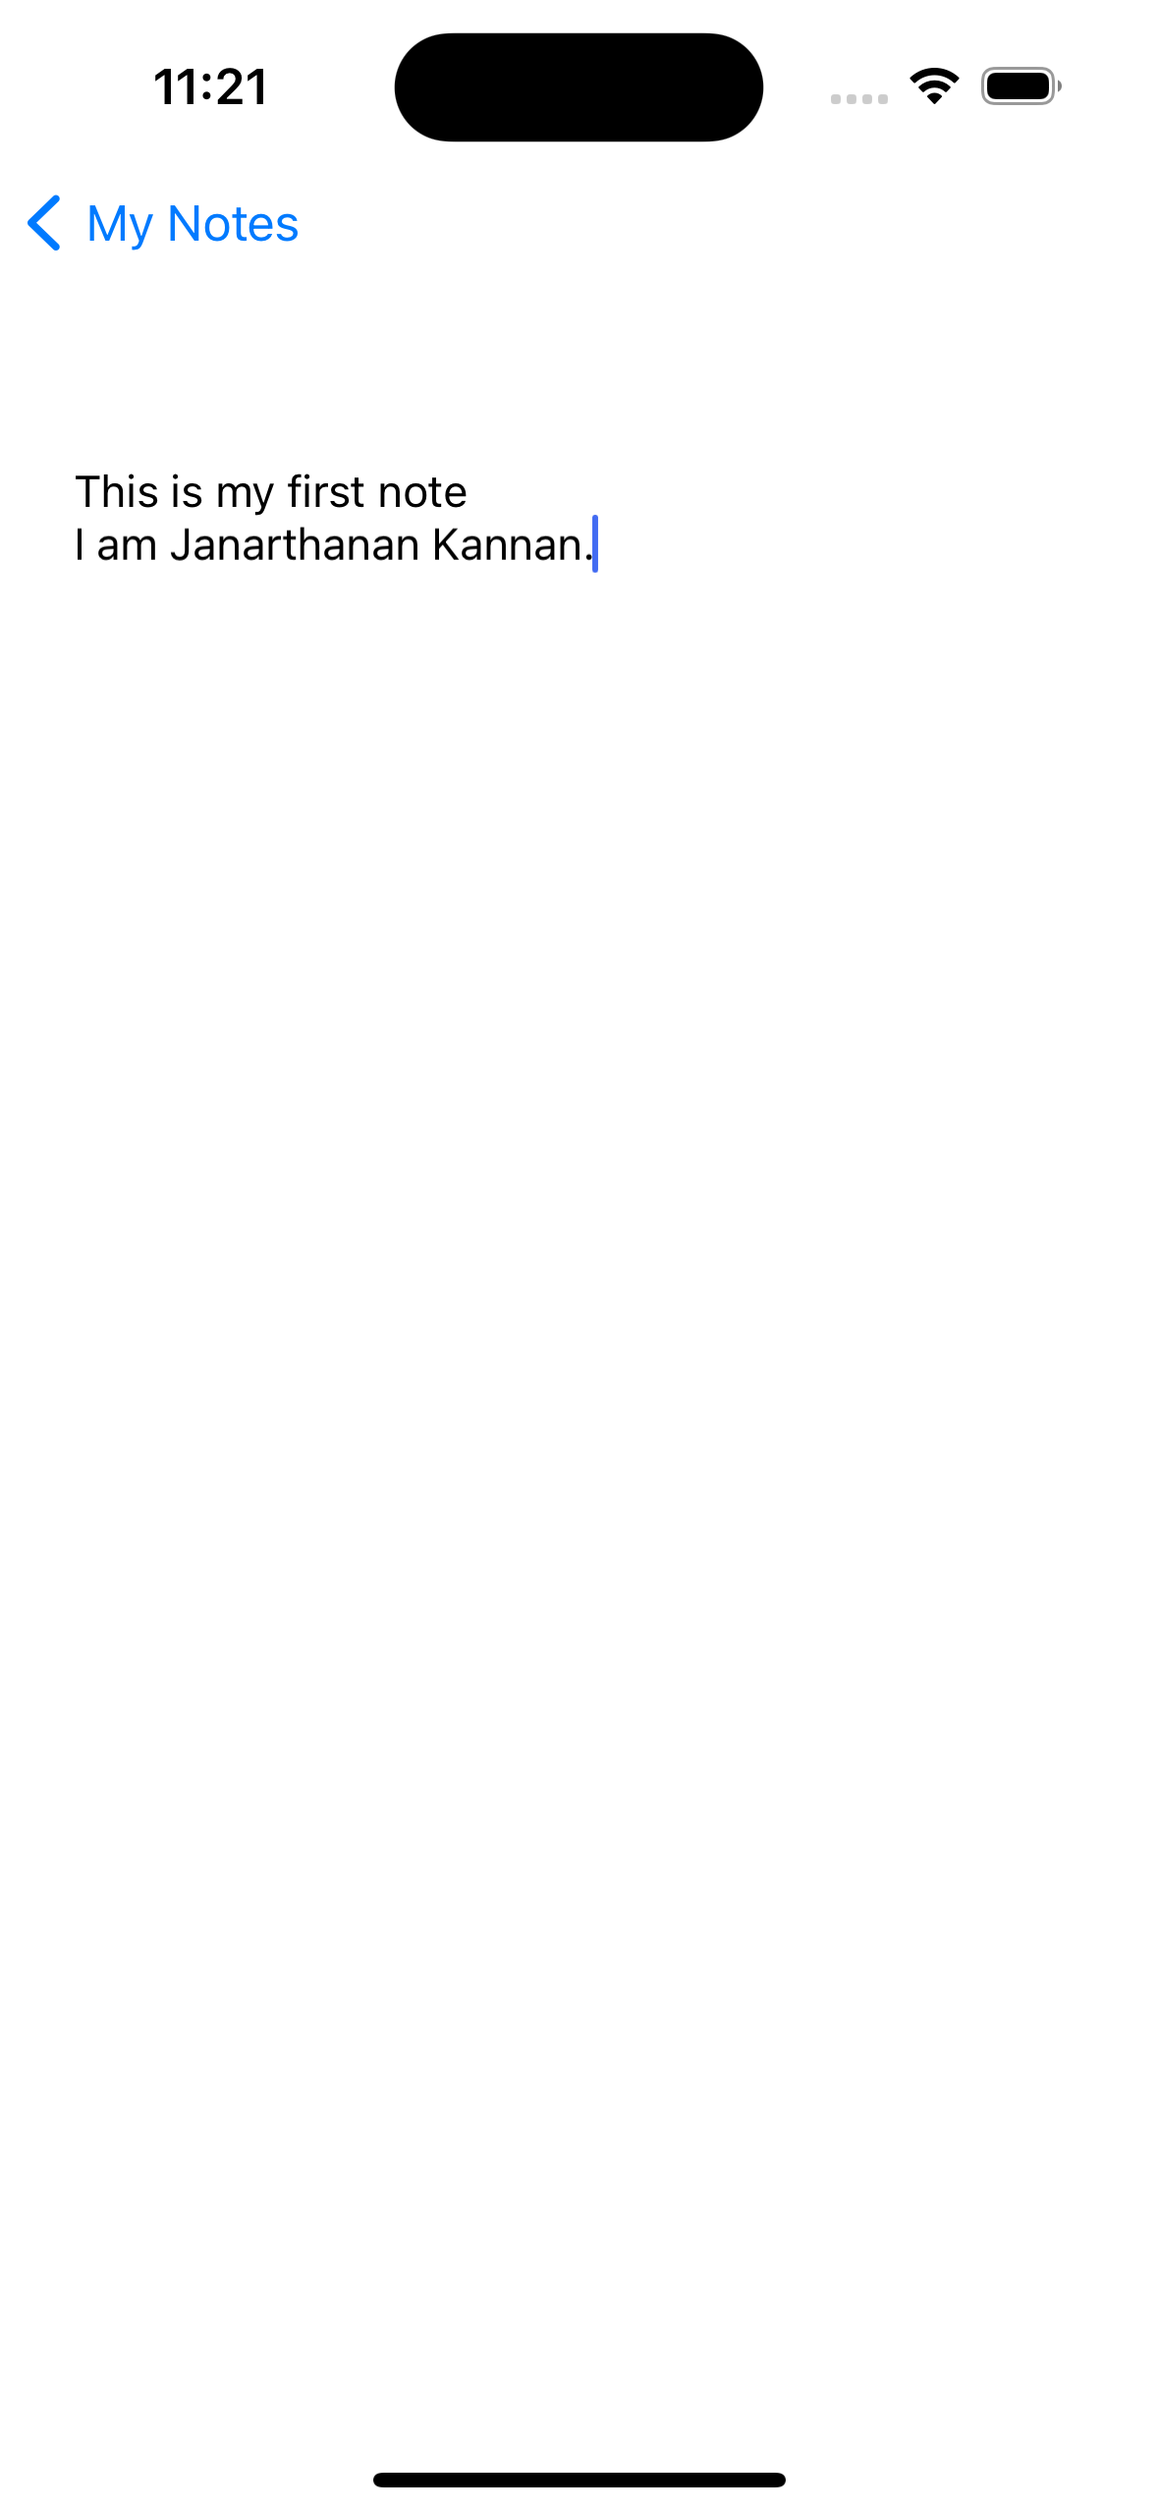
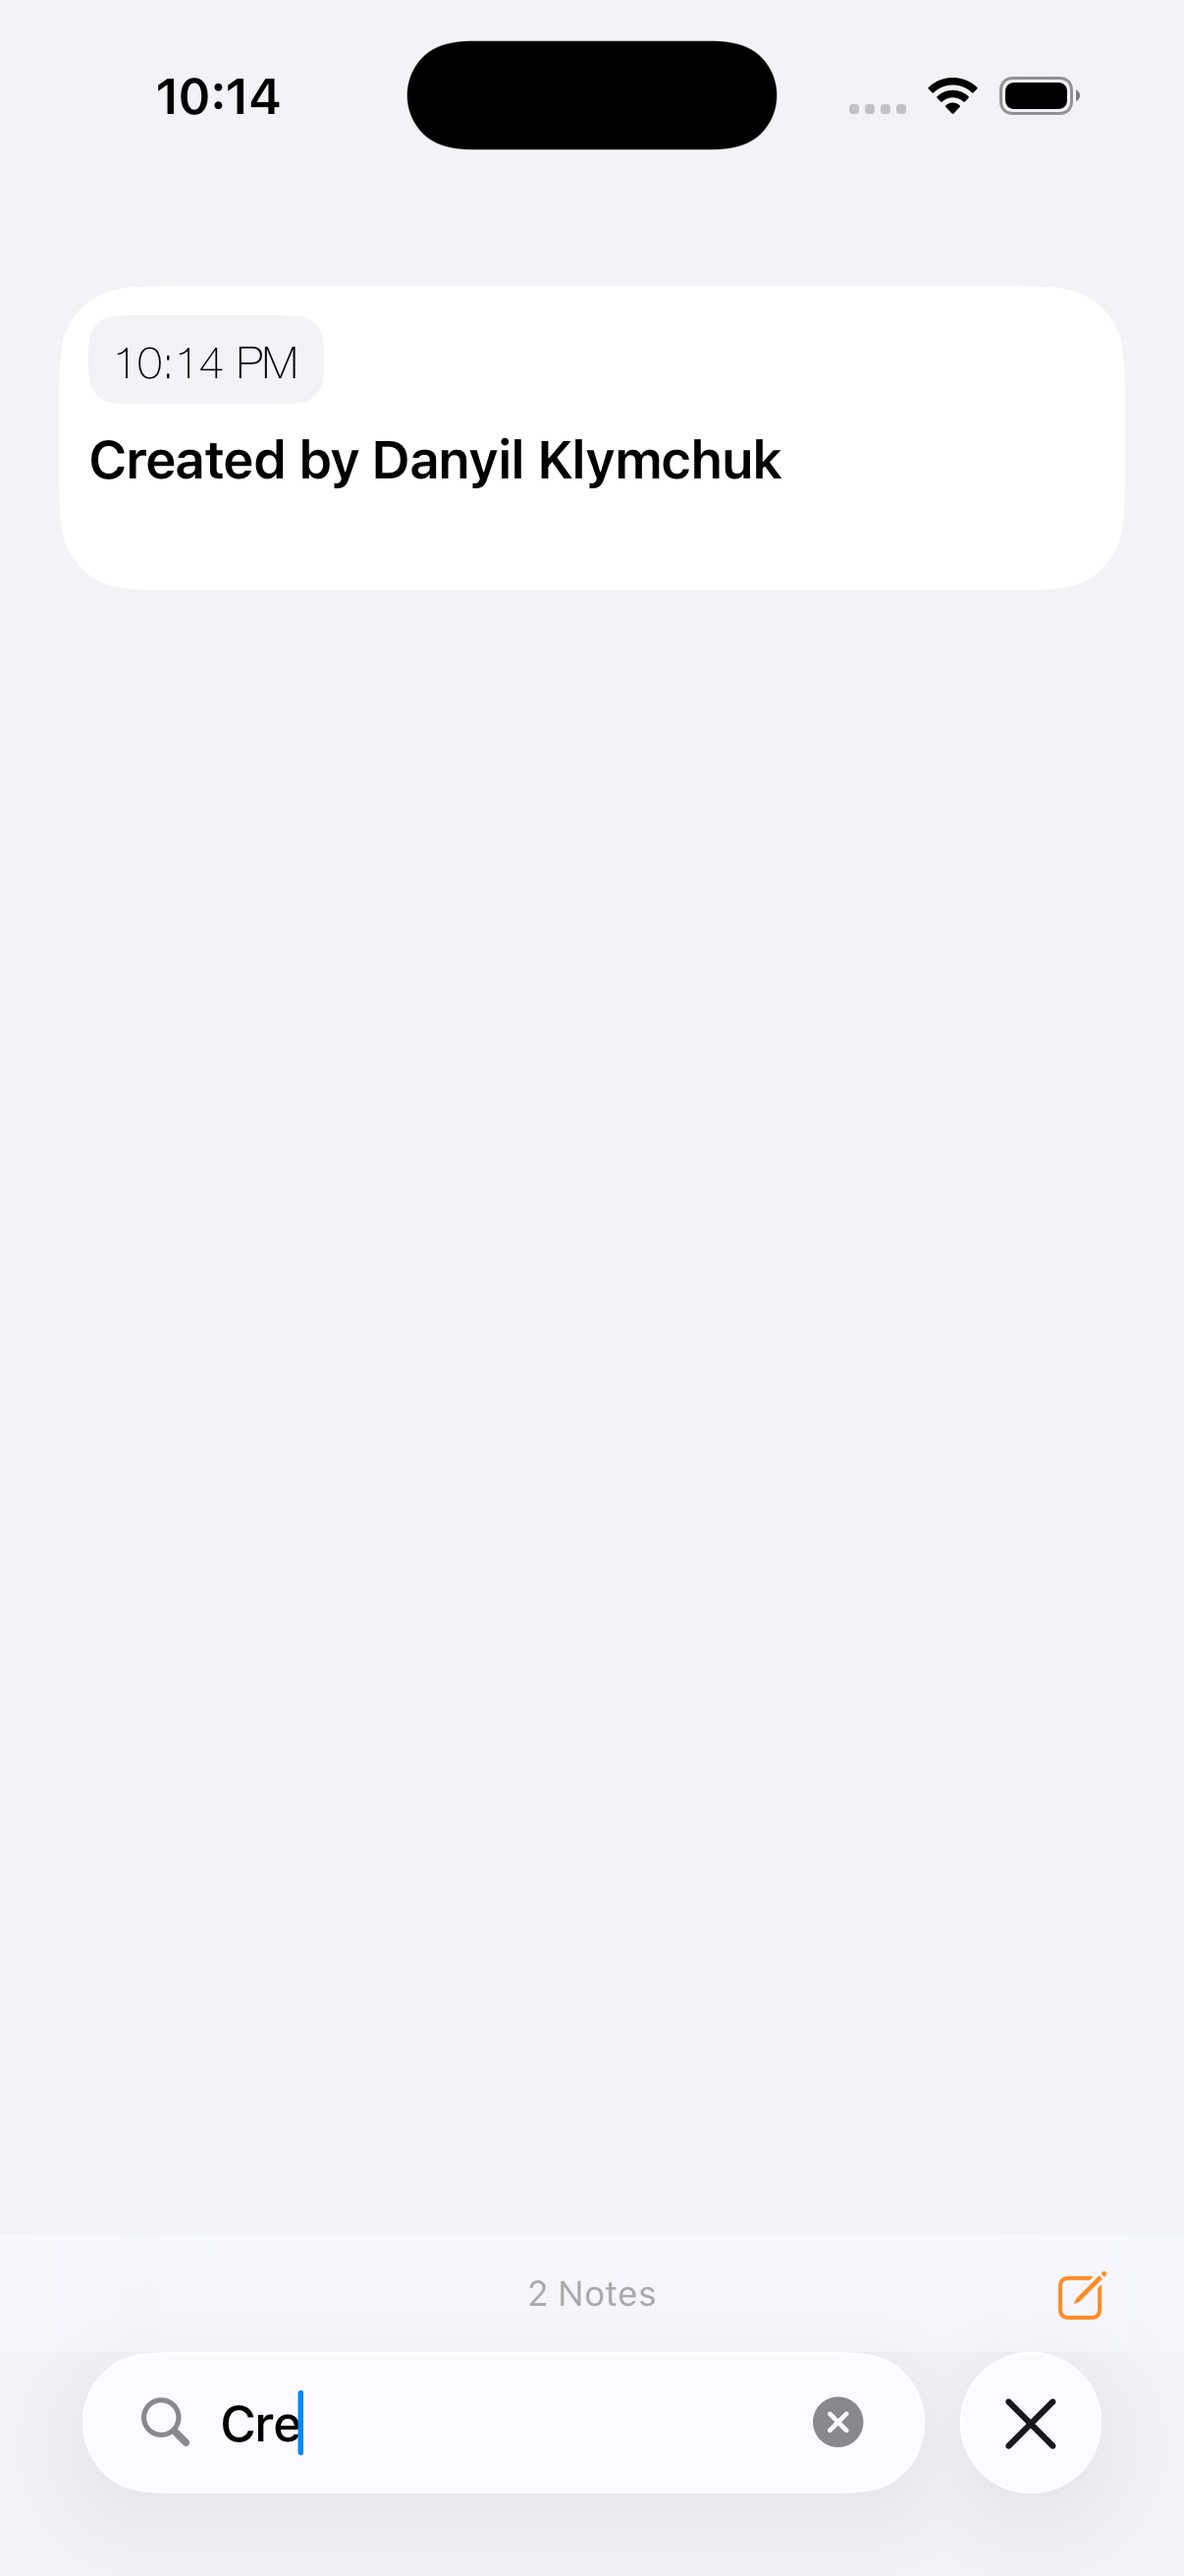
Added new screens

diff --git a/NotesApp/NotesAppUITests/NotesAppUITestsLaunchTests.swift b/NotesApp/NotesAppUITests/NotesAppUITestsLaunchTests.swift
@@ -2,9 +2,7 @@
 //  NotesAppUITestsLaunchTests.swift
 //  NotesAppUITests
 //
-//  Created by Jana's MacBook Pro on 6/10/24.
-//
-
+ 
 import XCTest
 
 final class NotesAppUITestsLaunchTests: XCTestCase {

diff --git a/NotesApp/NotesApp/Models/Note+CoreDataProperties.swift b/NotesApp/NotesApp/Models/Note+CoreDataProperties.swift
@@ -2,9 +2,7 @@
 //  Note+CoreDataProperties.swift
 //  NotesApp
 //
-//  Created by Jana's MacBook Pro on 6/13/24.
-//
-//
+ 
 
 import Foundation
 import CoreData

diff --git a/NotesApp/NotesAppTests/NotesAppTests.swift b/NotesApp/NotesAppTests/NotesAppTests.swift
@@ -2,8 +2,7 @@
 //  NotesAppTests.swift
 //  NotesAppTests
 //
-//  Created by Jana's MacBook Pro on 6/10/24.
-//
+ 
 
 import XCTest
 @testable import NotesApp

diff --git a/NotesApp/NotesApp/Models/Note+CoreDataClass.swift b/NotesApp/NotesApp/Models/Note+CoreDataClass.swift
@@ -2,9 +2,7 @@
 //  Note+CoreDataClass.swift
 //  NotesApp
 //
-//  Created by Jana's MacBook Pro on 6/13/24.
-//
-//
+ 
 
 import Foundation
 import CoreData

diff --git a/NotesApp/NotesAppUITests/NotesAppUITests.swift b/NotesApp/NotesAppUITests/NotesAppUITests.swift
@@ -2,8 +2,7 @@
 //  NotesAppUITests.swift
 //  NotesAppUITests
 //
-//  Created by Jana's MacBook Pro on 6/10/24.
-//
+ 
 
 import XCTest
 

diff --git a/NotesApp/NotesApp/Extensions/Date+Extension.swift b/NotesApp/NotesApp/Extensions/Date+Extension.swift
@@ -2,8 +2,7 @@
 //  Date+Extension.swift
 //  NotesApp
 //
-//  Created by Jana's MacBook Pro on 6/11/24.
-//
+ 
 
 import Foundation
 

diff --git a/NotesApp/NotesApp/Controllers/ViewController.swift b/NotesApp/NotesApp/Controllers/ViewController.swift
@@ -2,8 +2,7 @@
 //  ViewController.swift
 //  NotesApp
 //
-//  Created by Jana's MacBook Pro on 6/10/24.
-//
+ 
 
 import UIKit
 

diff --git a/NotesApp/NotesApp/Application/SceneDelegate.swift b/NotesApp/NotesApp/Application/SceneDelegate.swift
@@ -2,8 +2,7 @@
 //  SceneDelegate.swift
 //  NotesApp
 //
-//  Created by Jana's MacBook Pro on 6/10/24.
-//
+ 
 
 import UIKit
 

diff --git a/NotesApp/NotesApp/Controllers/NotesListVC.swift b/NotesApp/NotesApp/Controllers/NotesListVC.swift
@@ -2,9 +2,7 @@
 //  NotesListVC.swift
 //  NotesApp
 //
-//  Created by Jana's MacBook Pro on 6/11/24.
-//
-
+ 
 import UIKit
 
 

diff --git a/NotesApp/NotesApp/Views/NotesListCell.swift b/NotesApp/NotesApp/Views/NotesListCell.swift
@@ -2,8 +2,7 @@
 //  NotesListCell.swift
 //  NotesApp
 //
-//  Created by Jana's MacBook Pro on 6/11/24.
-//
+ 
 
 import UIKit
 

diff --git a/NotesApp/NotesApp/Application/AppDelegate.swift b/NotesApp/NotesApp/Application/AppDelegate.swift
@@ -2,8 +2,7 @@
 //  AppDelegate.swift
 //  NotesApp
 //
-//  Created by Jana's MacBook Pro on 6/10/24.
-//
+ 
 
 import UIKit
 

diff --git a/NotesApp/NotesApp/Controllers/EditNoteVC.swift b/NotesApp/NotesApp/Controllers/EditNoteVC.swift
@@ -2,8 +2,7 @@
 //  EditNoteVC.swift
 //  NotesApp
 //
-//  Created by Jana's MacBook Pro on 6/11/24.
-//
+ 
 
 import UIKit
 
